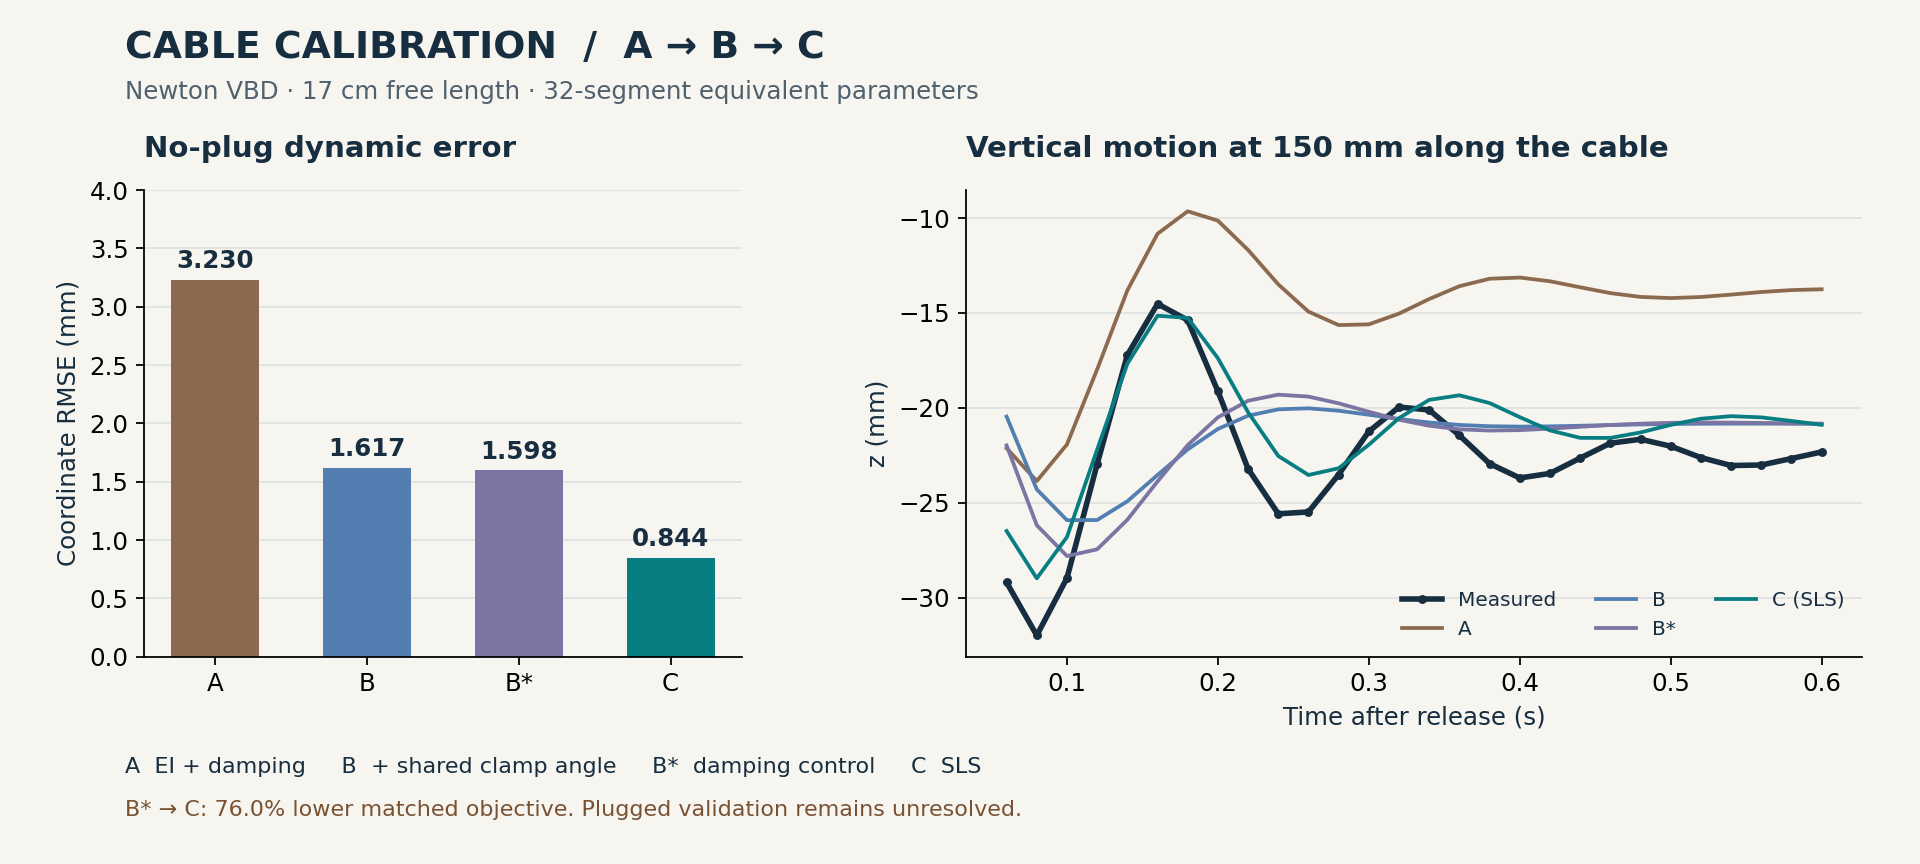
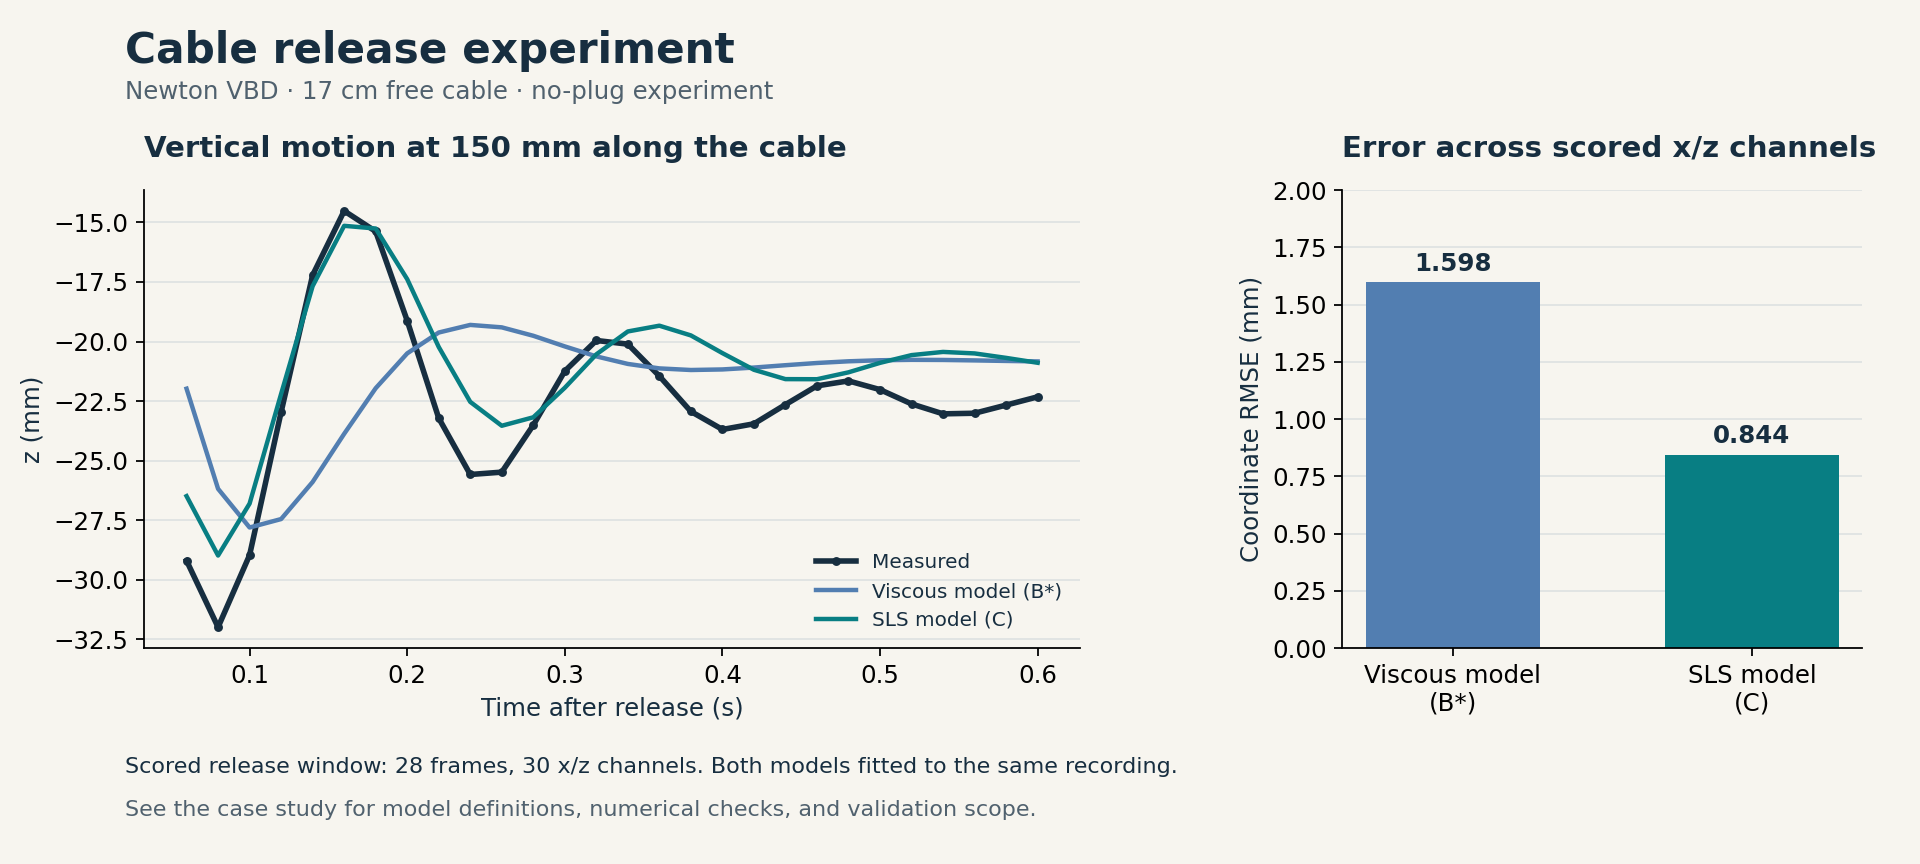
Make the README a Newton calibration entry point
Lead with the XPBD quickstart and navigation to the workflow and API.
Focus the cable preview on the completed no-plug comparison while
retaining links to the recorded validation scope and solver setup.

diff --git a/examples/cable_calibration/render_preview.py b/examples/cable_calibration/render_preview.py
@@ -1,4 +1,4 @@
-"""Render the README/Pages preview from archived measurements and predictions.
+"""Render the README preview from archived measurements and predictions.
 
 Run from the repository root:
     python -m pip install matplotlib
@@ -24,8 +24,9 @@ def main():
     times = np.asarray(experiment["times"])
     reference = np.asarray(experiment["reference"])
     mask = np.asarray(experiment["mask"], dtype=bool)
-    stages = ["A", "B", "Bstar", "C"]
-    colors = ["#8c6a50", "#527eb1", "#7b75a3", "#087e83"]
+    stages = ["Bstar", "C"]
+    labels = ["Viscous model (B*)", "SLS model (C)"]
+    colors = ["#527eb1", "#087e83"]
     plt.rcParams.update(
         {
             "font.family": "DejaVu Sans",
@@ -36,19 +37,19 @@ def main():
             "axes.labelcolor": "#172e40",
         }
     )
-    fig, (bars, traces) = plt.subplots(1, 2, figsize=(12, 5.4), gridspec_kw={"width_ratios": [1, 1.5]})
+    fig, (traces, bars) = plt.subplots(1, 2, figsize=(12, 5.4), gridspec_kw={"width_ratios": [1.8, 1]})
     fig.patch.set_facecolor("#f7f5ef")
     for ax in (bars, traces):
         ax.set_facecolor("#f7f5ef")
         ax.grid(axis="y", color="#dbe0e0", linewidth=0.7)
         ax.set_axisbelow(True)
     values = [metrics[f"{stage}__noplug_release"]["rmse_mm"] for stage in stages]
-    bars.bar(["A", "B", "B*", "C"], values, color=colors, width=0.58)
+    bars.bar(["Viscous model\n(B*)", "SLS model\n(C)"], values, color=colors, width=0.58)
     for i, value in enumerate(values):
-        bars.text(i, value + 0.10, f"{value:.3f}", ha="center", weight="bold")
-    bars.set_ylim(0, 4.0)
+        bars.text(i, value + 0.05, f"{value:.3f}", ha="center", weight="bold")
+    bars.set_ylim(0, 2.0)
     bars.set_ylabel("Coordinate RMSE (mm)")
-    bars.set_title("No-plug dynamic error", loc="left", pad=15, weight="bold")
+    bars.set_title("Error across scored x/z channels", loc="left", pad=15, weight="bold")
 
     valid = mask[:, 29]
     traces.plot(
@@ -60,40 +61,40 @@ def main():
         label="Measured",
     )
     with np.load(CASE / "data/traces.npz", allow_pickle=False) as archive:
-        for stage, color, label in zip(stages, colors, ["A", "B", "B*", "C (SLS)"], strict=True):
+        for stage, color, label in zip(stages, colors, labels, strict=True):
             traces.plot(
                 times[valid],
                 archive[f"{stage}__noplug_release"][valid, 29] * 1000,
                 color=color,
-                linewidth=1.7,
+                linewidth=2,
                 label=label,
             )
     traces.set_title("Vertical motion at 150 mm along the cable", loc="left", pad=15, weight="bold")
     traces.set_xlabel("Time after release (s)")
     traces.set_ylabel("z (mm)")
-    traces.legend(frameon=False, ncol=3, loc="lower right", fontsize=9)
-    fig.suptitle("CABLE CALIBRATION  /  A → B → C", x=0.065, y=0.965, ha="left", fontsize=17, weight="bold")
+    traces.legend(frameon=False, loc="lower right", fontsize=9)
+    fig.suptitle("Cable release experiment", x=0.065, y=0.965, ha="left", fontsize=19, weight="bold")
     fig.text(
         0.065,
         0.885,
-        "Newton VBD · 17 cm free length · 32-segment equivalent parameters",
+        "Newton VBD · 17 cm free cable · no-plug experiment",
         fontsize=11,
         color="#50616e",
     )
     fig.text(
         0.065,
         0.105,
-        "A  EI + damping     B  + shared clamp angle     B*  damping control     C  SLS",
+        "Scored release window: 28 frames, 30 x/z channels. Both models fitted to the same recording.",
         fontsize=10,
     )
     fig.text(
         0.065,
         0.055,
-        "B* → C: 76.0% lower matched objective. Plugged validation remains unresolved.",
+        "See the case study for model definitions, numerical checks, and validation scope.",
         fontsize=10,
-        color="#795234",
+        color="#50616e",
     )
-    fig.subplots_adjust(left=0.075, right=0.97, top=0.78, bottom=0.24, wspace=0.30)
+    fig.subplots_adjust(left=0.075, right=0.97, top=0.78, bottom=0.25, wspace=0.36)
     output = CASE / "reports/cable_calibration_preview.png"
     fig.savefig(output, dpi=160, facecolor=fig.get_facecolor())
     plt.close(fig)

diff --git a/README.md b/README.md
@@ -1,132 +1,79 @@
 # Newton Calibration
 
-Composable, evidence-based simulation parameter calibration for the Newton ecosystem.
+Newton Calibration estimates simulation parameters from experimental observations. It combines simulator adapters, parameter search, numerical checks, and validation in a reproducible workflow. Each run records the selected parameters, settings, predictions, and validation results.
 
-The framework uses the `newton_calibration` Python package and `newton-calibration` CLI. The sliding and cable examples connect it to Newton's XPBD and VBD solvers through adapters.
+Start with a Newton XPBD sliding example, then connect your own measurements and model. The cable study shows how static and dynamic experiments guide parameter estimation and model refinement.
 
-[Contributing](CONTRIBUTING.md) · [Repository instructions](AGENTS.md) · [Apache-2.0 license](LICENSE)
+**[Quickstart](docs/quickstart-preview.md) · [Calibration workflow](docs/calibration-guide.md) · [API reference](docs/api-reference-preview.md) · [Examples](#examples)**
 
-Newton Calibration turns measured observations, a simulator adapter and a parameter space into one traceable `Tuning.run()`. It checks numerical accuracy and local identifiability, performs batched search, reloads the candidate, and validates before releasing an asset.
+## Quickstart
 
-[Local report preview](docs/publishing-results.md) · [User guide](docs/user-guide.md) · [Codex skills](docs/codex-skills.md) · [Cable A → B → C example](examples/cable_calibration/README.md)
+Fit the friction of a sliding box with Newton's `SolverXPBD`. This example runs on CPU and compares simulated motion with analytical reference trajectories whose friction is known.
 
-Start with the Newton XPBD example to run a calibration, inspect its outputs, assemble the members, and connect your own observations and simulator. [Quick start](docs/quickstart-preview.md)
-
-Use the calibration workflow for task definition, experiment design, and residual-based troubleshooting. Consult the API reference for member arguments and contracts. [Calibration workflow](docs/calibration-guide.md) · [API reference](docs/api-reference-preview.md)
-
-## Run the core demos
-
-Python 3.11+; the core requires NumPy. Newton is **not** a core dependency.
+From a repository checkout, activate a Python 3.11+ environment and install the tested Newton and Warp versions:
 
 ```bash
-git clone https://github.com/newton-physics/newton-calibration.git
-cd newton-calibration
-python -m venv .venv
-source .venv/bin/activate
-python -m pip install -e ".[cma,dev]"
+python -m pip install -e . "warp-lang==1.17.0" \
+  "newton @ git+https://github.com/newton-physics/newton.git@d37f4d3d341ccce1e06a1dff21e9a054759b4855"
+python -m examples.sliding_calibration.run --workspace workspace/newton-sliding
+```
 
-# A complete CPU calibration using an independent analytical reference:
-newton-calibration demo --case sliding --optimizer grid --workspace workspace/sliding
+The example uses Newton 1.6.0.dev0 at the pinned revision above. The first run compiles Warp kernels. See the [setup and scope](examples/sliding_calibration/README.md) for environment details.
 
-# Two parameters, CMA-ES:
-newton-calibration demo --case oscillator --optimizer cma_es --workspace workspace/oscillator
+Expect `accepted` and a friction coefficient close to `0.35`. The command prints the run directory and accepted asset path. Open `result.json` for the outcome and `run_state.json` for the analysis and validation reports.
 
-# Re-score the real cable's archived results, without Newton or simulation:
+Continue with the **[step-by-step quickstart](docs/quickstart-preview.md)** to inspect the saved run, assemble the calibration yourself, replace the simulator adapter, or switch from a single environment to multiple environments.
+
+## Examples
+
+| Example | What it demonstrates | Start here |
+|---|---|---|
+| Sliding box · Newton XPBD | Fit one physical parameter against analytical evidence, check numerical accuracy, and validate at a held-out initial speed | [Run and inspect](docs/quickstart-preview.md) · [Source](examples/sliding_calibration/) |
+| Measured cable · Newton VBD | Use static shapes and release motion to fit parameters, interpret residuals, and refine the model | [Calibration workflow](docs/calibration-guide.md) · [Case study](examples/cable_calibration/README.md) |
+
+### Cable release experiment
+
+[![No-plug cable release: measured vertical motion compared with viscous and SLS models, with coordinate RMSE of 1.598 mm and 0.844 mm respectively](examples/cable_calibration/reports/cable_calibration_preview.png)](examples/cable_calibration/README.md)
+
+The completed no-plug experiment compares viscous bending damping (B*) with a standard linear solid (SLS) model (C), using the same observations and objective. Coordinate RMSE decreases from **1.598 mm to 0.844 mm** over the scored x/z channels. These are errors on the fitting recording; the archived run's formal outcome remains `rejected_validation`.
+
+The [case study](examples/cable_calibration/README.md) explains the experimental conditions, model changes, numerical checks, and limits of these results. It also includes the measured data, archived predictions, and solver setup. View the [English report](examples/cable_calibration/reports/cable_calibration_en.html) or [Chinese report](examples/cable_calibration/reports/cable_calibration_zh.html) using the [local preview instructions](docs/publishing-results.md).
+
+To check the archived cable scores on CPU with the core dependencies installed:
+
+```bash
 python -m examples.cable_calibration.verify
 ```
 
-Use `newton-calibration inspect workspace/sliding/<run-id>` to read a result.
-The demo CLI exits with code 0 only for an accepted result. See the [user guide](docs/user-guide.md) for installation, API usage, outputs and failure interpretation.
+This command re-scores saved traces without starting Newton. For lightweight sliding and oscillator demos using NumPy, see the [user guide](docs/user-guide.md).
 
-## Architecture
+## How it works
 
-Ten members compose a Tuning instance; `RunState` is owned by Tuning.
-
-| Member | Responsibility |
-|---|---|
-| Evidence | Observations, masks, scales, acquisition groups and train/validation split |
-| Asset | Fresh environments, applied parameter readback, export/reload |
-| Template | Fixed experimental conditions, discretization and numerical refinements |
-| Parameters | Units, bounds, baselines and linear/log transforms |
-| Rollout | Isolated trial × experiment × repeat execution |
-| Evaluator | Batched NumPy losses, metrics, constraints and residual features |
-| Optimizer | GridSearch / CMA-ES ask and tell |
-| Decision | Sole continue/stop authority and all-phase budgets |
-| Validator | Frozen-candidate training retest and validation |
-| Play | Saved-trajectory comparison and USDA point animation |
+A `Tuning` instance brings together the evidence, simulator adapter, physical parameters, and search and validation rules:
 
 ```text
-freeze inputs → baseline & numerical qualification → local sensitivity / SVD
-→ Decision → ask → rollout → score → tell → stop
-→ export/reload → training retest → validation → final numerical checks
-→ release only if accepted
+Define evidence and parameters → check baseline and numerical accuracy
+→ search physical parameters with fixed numerical settings
+→ reload the candidate → validate and recheck numerical accuracy
+→ release an asset if accepted
 ```
 
-Numerical qualification defaults to explicitly declared refinements. `Template(qualification_mode="repeatability", refinements=())` instead checks repeated execution of the same fixed configuration. Reports record this narrower scope; repeatability does not establish timestep or discretization convergence.
+The adapter owns model construction, parameter application, simulation, and observations. The calibration members handle execution, scoring, search, and validation through one `Tuning.run()` lifecycle.
 
-A new case composes these objects. It does not replace `Tuning.run()`.
-See the [class diagram](docs/tuning-class-diagram.md) and [design](docs/generic-calibration-workflow-design.md).
+- **[Calibration workflow](docs/calibration-guide.md):** choose the goal, design experiments, and decide what the evidence supports.
+- **[Quickstart](docs/quickstart-preview.md):** connect observations and a simulator, then run the workflow.
+- **[API reference](docs/api-reference-preview.md):** configure members, implement adapters, and read result files.
+- **[Capabilities and limits](docs/implementation-status.md):** check supported execution modes and the scope of diagnostics.
 
-## Real example: cable calibration
-
-[![Cable calibration results: errors and measured/predicted dynamics](examples/cable_calibration/reports/cable_calibration_preview.png)](examples/cable_calibration/reports/cable_calibration_en.html)
-
-**[English HTML report](examples/cable_calibration/reports/cable_calibration_en.html)** · [Chinese report](examples/cable_calibration/reports/cable_calibration_zh.html)
-
-The cable calibration was performed with **Newton VBD, using NVIDIA Warp on a CUDA GPU**. TaskTuning managed the calibration lifecycle and scored observations with PyTorch. The repository includes processed observations, 14 archived traces, stage-specific Newton adapters, portable configurations, and bilingual HTML reports.
-
-| Stage | What changed | No-plug dynamic RMSE | Formal historical result |
-|---|---|---:|---|
-| A | Fit bending rigidity and damping | 3.230 mm | rejected_training |
-| B | Add one shared mount-angle correction | 1.617 mm | rejected_validation |
-| B* | Freeze static parameters; re-fit damping with distal weighting | 1.598 mm | rejected_validation |
-| C | Replace viscous bending damping with SLS transient rigidity and relaxation time | 0.844 mm | rejected_validation |
-
-A → B addresses a boundary hypothesis prompted by left/right residuals. It is not a controlled angle-only ablation. B* → C uses the same observations and objective; SLS reduces that objective by **76.0%**, but the plugged case still fails and remains numerically unqualified.
-
-- [Case walkthrough and rerun instructions](examples/cable_calibration/README.md)
-- [Downloadable English HTML](examples/cable_calibration/reports/cable_calibration_en.html) · [Downloadable Chinese HTML](examples/cable_calibration/reports/cable_calibration_zh.html) — download the reports or use the [local preview](docs/publishing-results.md).
-- [Historical results](examples/cable_calibration/archive/) · [portable stage configurations](examples/cable_calibration/configs/)
-
-### Which environment do I need?
-
-| Task | Required environment |
-|---|---|
-| Newton XPBD quickstart | Newton Calibration, pinned Newton source and Warp on CPU, as specified in the [quickstart setup](docs/quickstart-preview.md#install) |
-| Generic synthetic demos | Newton Calibration with NumPy; no Newton |
-| Re-score archived cable traces | Core dependencies on CPU; no Newton or new simulation |
-| Construct or rerun cable calibration | Newton Calibration, SciPy, pinned Newton source and Warp; the recorded simulations used CUDA |
-| Run stage C (SLS) | The same stack plus the bundled SLS adaptation applied to the pinned Newton base |
-
-The historical cable environment used Python 3.12.13, Newton 1.6.0.dev0 at commit `d37f4d3d341ccce1e06a1dff21e9a054759b4855`, Warp 1.17.0, and an RTX 5070 Ti Laptop GPU. PyTorch 2.9.1+cpu handled scoring: **CPU PyTorch does not imply CPU Newton simulation**.
-
-Installing `.[cable,cma]` does not install Newton or apply the SLS patch. Follow the [Newton environment and stage setup](examples/cable_calibration/README.md#5-construct-or-rerun-a-stage-with-newton) before using `--run`. Generic quick-start success and archive verification do not validate a new Newton environment. Raw MOV files, complete search histories and the full Newton source tree are not bundled.
-
-## Codex skills
-
-The five sibling directories in [codex-skills/](codex-skills/) form one coordinated configuration module:
-
-- `standard-tuning`: intake, decisions, a shared specification and a real Tuning factory.
-- `tuning-evidence`: Evidence / Evaluator / Validator.
-- `tuning-environment`: Asset / Template / Rollout / Play.
-- `tuning-search`: Parameters / Optimizer / Decision.
-- `tuning-adapter`: minimal member adapters when existing implementations are insufficient.
-
-See [installation and usage](docs/codex-skills.md). Skills do not install Python dependencies or create a second calibration loop.
-
-## Development and limits
+## Development
 
 ```bash
 python -m pip install -e ".[cma,dev]"
 python -m newton_calibration.tests
 python -m examples.cable_calibration.verify
-ruff check newton_calibration examples/cable_calibration/run.py examples/cable_calibration/verify.py
+uvx pre-commit run -a
 ```
 
-The core currently supports synchronous batches, threaded environments, optional multi-candidate environments and NumPy scoring. Thread speedup depends on the backend. It does not provide process-level forced termination, distributed multi-GPU execution, automatic resume, Bayesian optimization or PBT.
+See [Contributing](CONTRIBUTING.md) for development and validation guidelines, and [Codex skills](docs/codex-skills.md) for configuring calibration tasks with the bundled skills.
 
-Local SVD diagnostics are not confidence intervals or proofs of global identifiability. USDA output is a trajectory visualization, not a complete physical USD asset. **Search termination, training fit and accepted release are different outcomes.**
-
-See [capabilities and limits](docs/implementation-status.md) and [skills usage](docs/tuning-skills-implementation.md).
-
-Reports are bundled for [local viewing](docs/publishing-results.md). See [development and validation](CONTRIBUTING.md).
+[Class diagram](docs/tuning-class-diagram.md) · [Workflow design](docs/generic-calibration-workflow-design.md) · [Repository instructions](AGENTS.md) · [Apache-2.0 license](LICENSE)
